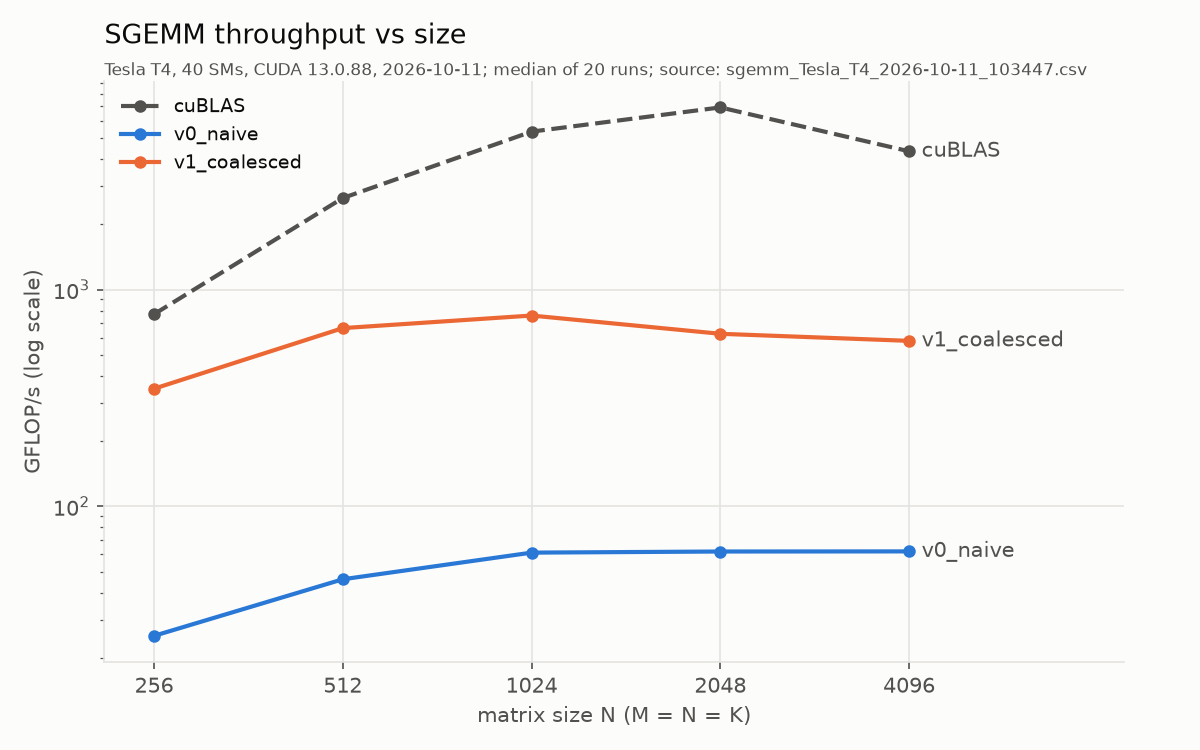
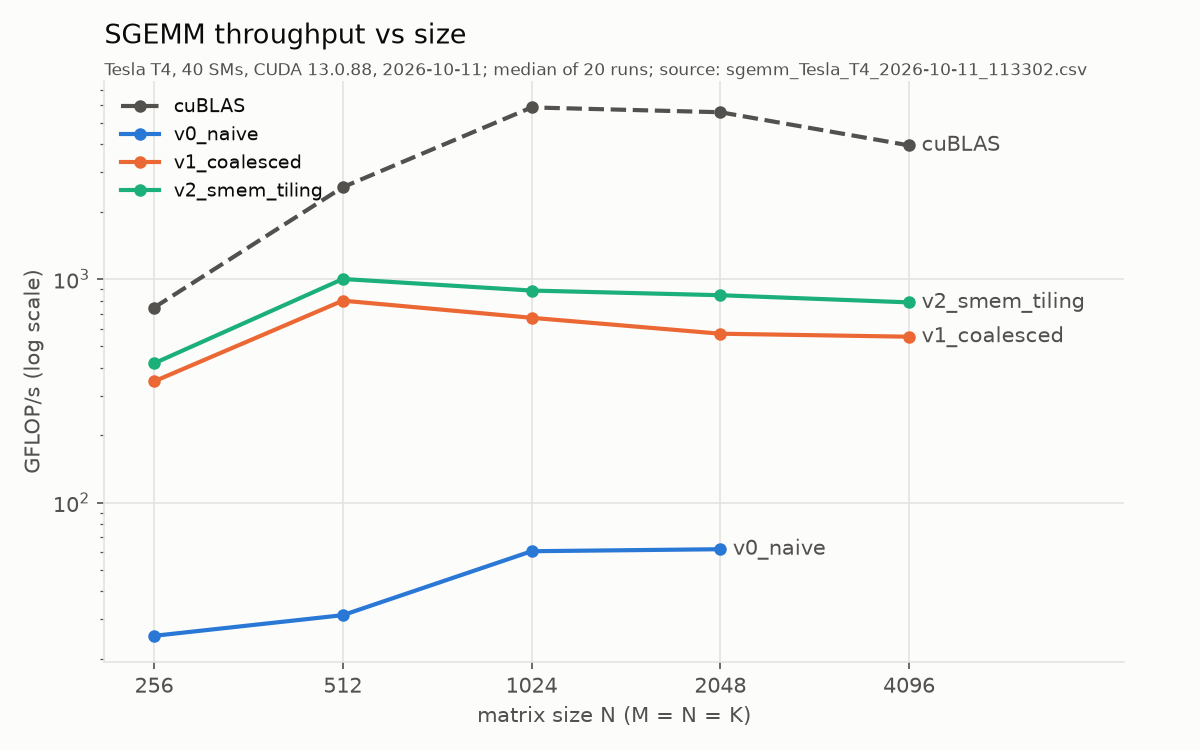
results: Colab run 2 (v0-v2, paired cuBLAS timing)

diff --git a/README.md b/README.md
@@ -19,25 +19,30 @@ _Generated by `scripts/make_tables.py` from the CSV below. Do not edit by hand._
 
 | kernel | GFLOP/s | median ms | min – p90 ms | % cuBLAS | max rel err | check |
 |---|---|---|---|---|---|---|
-| cuBLAS | 4,342 | 31.65 | 27.28 – 32.02 | 100.0% | reference | REF |
-| `v0_naive` | 62 | 2219.60 | 2217.23 – 2229.33 | 1.4% | 0.0e+00 | PASS |
-| `v1_coalesced` | 580 | 237.11 | 226.28 – 238.56 | 13.3% | 0.0e+00 | PASS |
+| cuBLAS | 3,962 | 34.69 | 24.29 – 35.08 | 100.0% | reference | REF |
+| `v1_coalesced` | 552 | 249.01 | 225.81 – 253.46 | 10.6% | 0.0e+00 | PASS |
+| `v2_smem_tiling` | 786 | 174.84 | 150.49 – 177.26 | 13.2% | 0.0e+00 | PASS |
+
+% cuBLAS compares each kernel with cuBLAS calls interleaved with its own timed runs (same thermal state), so it can differ from the ratio to the standalone cuBLAS row.
+
+Not run at this size: `v0_naive` (largest size run: 2048).
 
 GFLOP/s at every size (1000 and 1023 test boundary handling):
 
 | kernel | 256 | 512 | 1000 | 1023 | 1024 | 2048 | 4096 |
 |---|---|---|---|---|---|---|---|
-| cuBLAS | 770 | 2,643 | 5,285 | 5,257 | 5,351 | 6,921 | 4,342 |
-| `v0_naive` | 25 | 46 | 111 | 197 | 61 | 62 | 62 |
-| `v1_coalesced` | 349 | 664 | 764 | 717 | 759 | 625 | 580 |
+| cuBLAS | 745 | 2,576 | 5,952 | 5,654 | 5,858 | 5,575 | 3,962 |
+| `v0_naive` | 25 | 31 | 111 | 189 | 61 | 62 |  |
+| `v1_coalesced` | 348 | 800 | 638 | 617 | 671 | 569 | 552 |
+| `v2_smem_tiling` | 420 | 1,001 | 806 | 848 | 888 | 846 | 786 |
 
 Environment:
 
 - GPU: **Tesla T4** (sm_75), 40 SMs, max SM clock 1590 MHz
 - CUDA runtime 13.0, nvcc 13.0.88, driver 580.82.07, cuBLAS 130101
-- Run: 2026-10-11T10:34:47Z; 3 warm-ups + 20 timed runs per point; source `results/sgemm_Tesla_T4_2026-10-11_103447.csv`
-- SM clock / temperature / power at start of run: 825 MHz / 38 C / 27.86 W (limit 70.00 W)
-- SM clock / temperature / power at end of run: 1425 MHz / 63 C / 67.44 W (limit 70.00 W)
+- Run: 2026-10-11T11:33:02Z; 3 warm-ups + 20 timed runs per point; source `results/sgemm_Tesla_T4_2026-10-11_113302.csv`
+- SM clock / temperature / power at start of run: 825 MHz / 48 C / 28.62 W (limit 70.00 W)
+- SM clock / temperature / power at end of run: 1170 MHz / 61 C / 54.10 W (limit 70.00 W)
 - Theoretical FP32 peak (SMs x 64 lanes x max clock x 2): 8,141 GFLOP/s
 
 <!-- END GENERATED: results -->
